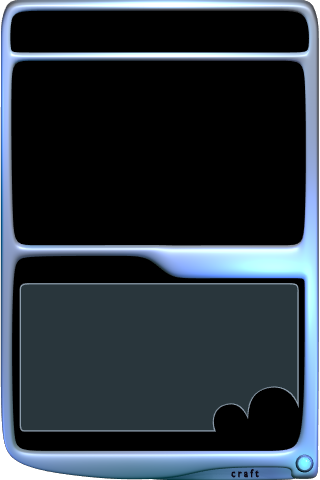
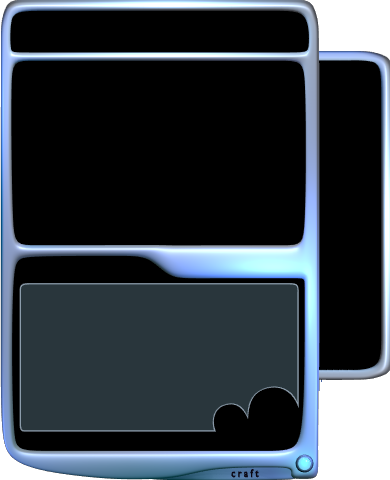
hud: add materials tab to the addon crafting screen (fixes #3185439, #3185446 and #3185444). Patch by Pedro Arana.
git-svn-id: https://freedroid.svn.sourceforge.net/svnroot/freedroid@4064 524c2bfb-fa3f-0410-b5a2-92f4e1dc5b61

Changed region(s): [[0.3438, 0.0, 1.0, 1.0], [0.0, 0.0, 0.375, 1.0], [0.3125, 0.0, 0.3438, 0.0312]]

diff --git a/src/addon_crafting_ui.c b/src/addon_crafting_ui.c
@@ -41,6 +41,12 @@ struct crafting_recipe {
 	int item_type; /// The type number of the add-on this recipe will craft.
 };
 
+struct material {
+	int item_type; //item type from the recipe
+	int available; //# of items in inventory
+	int required; // # if items required by recipe
+};
+
 static struct {
 	int visible;
 	int quit;
@@ -48,6 +54,7 @@ static struct {
 	int scroll_offset; /// The scroll offset of the recipe list, in full rows.
 	struct dynarray recipes;
 	struct text_widget description;
+	struct material materials_for_selected[5];
 } ui = { .visible = FALSE };
 
 static const struct {
@@ -56,12 +63,14 @@ static const struct {
 	SDL_Rect details_text;
 	SDL_Rect recipe_list;
 	SDL_Rect recipe_desc;
+	SDL_Rect materials_list;
 } rects = {
-	{ ADDON_CRAFTING_RECT_X, ADDON_CRAFTING_RECT_Y, ADDON_CRAFTING_RECT_W, ADDON_CRAFTING_RECT_H },
-	{ ADDON_CRAFTING_RECT_X + 20, ADDON_CRAFTING_RECT_Y + 12, 280, 38 },
-	{ ADDON_CRAFTING_RECT_X + 25, ADDON_CRAFTING_RECT_Y + 260, 130, 20 },
-	{ ADDON_CRAFTING_RECT_X + 20, ADDON_CRAFTING_RECT_Y + 62, 276, 180 },
-	{ ADDON_CRAFTING_RECT_X + 22, ADDON_CRAFTING_RECT_Y + 290, 220, 140 }
+	{ ADDON_CRAFTING_RECT_X, ADDON_CRAFTING_RECT_Y, ADDON_CRAFTING_RECT_W, ADDON_CRAFTING_RECT_H }, //main
+	{ ADDON_CRAFTING_RECT_X + 20, ADDON_CRAFTING_RECT_Y + 12, 280, 38 }, //title_text
+	{ ADDON_CRAFTING_RECT_X + 25, ADDON_CRAFTING_RECT_Y + 260, 130, 20 }, //details_text
+	{ ADDON_CRAFTING_RECT_X + 20, ADDON_CRAFTING_RECT_Y + 62, 276, 180 }, //recipe_list
+	{ ADDON_CRAFTING_RECT_X + 22, ADDON_CRAFTING_RECT_Y + 290, 220, 135 }, //recipe_desc
+	{ ADDON_CRAFTING_RECT_X + ADDON_CRAFTING_RECT_W , ADDON_CRAFTING_RECT_Y + 62, 65, 310 } //materials_list
 };
 
 /**
@@ -90,10 +99,12 @@ static void select_recipe(int index)
 	autostr_append(desc, "\n\n%s%s%s\n", font_switchto_msgstat, _("Features:"), font_switchto_msgvar);
 	print_addon_description(spec, desc);
 
-	// Append material requirements to the text widget.
-	autostr_append(desc, "\n%s%s%s\n", font_switchto_msgstat, _("Materials:"), font_switchto_msgvar);
+	//clean the array
+	memset(&ui.materials_for_selected, 0, sizeof(struct material) * 5);
 	for (i = 0; i < spec->materials.size; i++) {
-		autostr_append(desc, _("%s: %d\n"), materials[i].name, materials[i].value);
+		ui.materials_for_selected[i].item_type = GetItemIndexByName(materials[i].name);
+		ui.materials_for_selected[i].required = materials[i].value;
+		ui.materials_for_selected[i].available = CountItemtypeInInventory(ui.materials_for_selected[i].item_type);
 	}
 
 	// Scroll the text widget to the top.
@@ -154,6 +165,8 @@ static void craft_item()
 		// The player lost some materials so some of the recipes might have become
 		// unaffordable. We need to recheck for the requirements because of this.
 		check_recipe_requirements();
+		// And we need recheck the materials showed for the selected recipe
+		select_recipe(ui.selection);
 	}
 }
 
@@ -248,6 +261,10 @@ void show_addon_crafting_ui()
 	SetCurrentFont(Blue_BFont);
 	display_text(_("Details"), rects.details_text.x, rects.details_text.y, NULL);
 
+	// Draw the parts text
+	SetCurrentFont(Blue_BFont);
+	display_text(_("Parts"), rects.materials_list.x, rects.materials_list.y, NULL);
+
 	// Draw the apply and close buttons.
 	if (arr[ui.selection].available) {
 		ShowGenericButtonFromList(ADDON_CRAFTING_APPLY_BUTTON);
@@ -285,6 +302,66 @@ void show_addon_crafting_ui()
 			display_image_on_screen_scaled(img, icon_rect.x, icon_rect.y, scale);
 		}
 		rect.y += rect.h;
+	}
+
+#define MARGIN_SPACE (5)
+#define WIDTH_BORDER (5)
+	// Draw the parts on the tab
+	rect.x = rects.materials_list.x;
+	rect.y = rects.materials_list.y + 20 + MARGIN_SPACE;
+	rect.w = rects.materials_list.w;
+
+	char text[10];
+	for (i = 0; i < 5; i++) {
+		if(ui.materials_for_selected[i].required == 0){
+			continue;
+		}
+		// |         |
+		// |  @@@@@  |
+		// |  @@@@@  | < image
+		// |  @@@@@  |
+		// | 00 / 11 | < text
+
+		//search for image and display it
+		struct image *img = get_item_inventory_image(ui.materials_for_selected[i].item_type);
+		int x = rect.x + 30 - (img->h / 2);
+		int y = rect.y + MARGIN_SPACE;
+		display_image_on_screen(img, x, y );
+
+		//display the text
+		y = rect.y + MARGIN_SPACE + img->h ;
+
+		//first the divisor  (11 part in the diagram)
+		sprintf( text ,"%s%02d", font_switchto_neon, ui.materials_for_selected[i].required);
+		int w_text = TextWidth(text);
+		x = rect.x + rect.w  // the right border
+			 - WIDTH_BORDER // the blue border
+			 - w_text; // right justified
+		display_text(text, x, y, NULL);
+
+		//then the '/' center
+		w_text = TextWidth("/");
+		int half = w_text / 2;
+		x = rect.x + (rect.w / 2) // center of the column
+			 - half; // center placed
+		display_text("/", x, y, NULL);
+
+		//last dividend (00 part in the diagram)
+		if (ui.materials_for_selected[i].available < ui.materials_for_selected[i].required) {
+			sprintf( text ,"%s%02d", font_switchto_red, ui.materials_for_selected[i].available);
+		} else {
+			if (ui.materials_for_selected[i].available > 100)
+				sprintf( text ,"%s--", font_switchto_neon);
+			else
+				sprintf( text ,"%s%02d", font_switchto_neon, ui.materials_for_selected[i].available);
+		}
+		w_text = TextWidth(text);
+		x = rect.x + (rect.w / 2) // center of the column
+			 - half // the part used by /
+			 - w_text; // right justified
+		display_text(text, x , y , NULL);
+
+		rect.y += MARGIN_SPACE + img->h + 20;
 	}
 
 	// Draw the scroll buttons.
